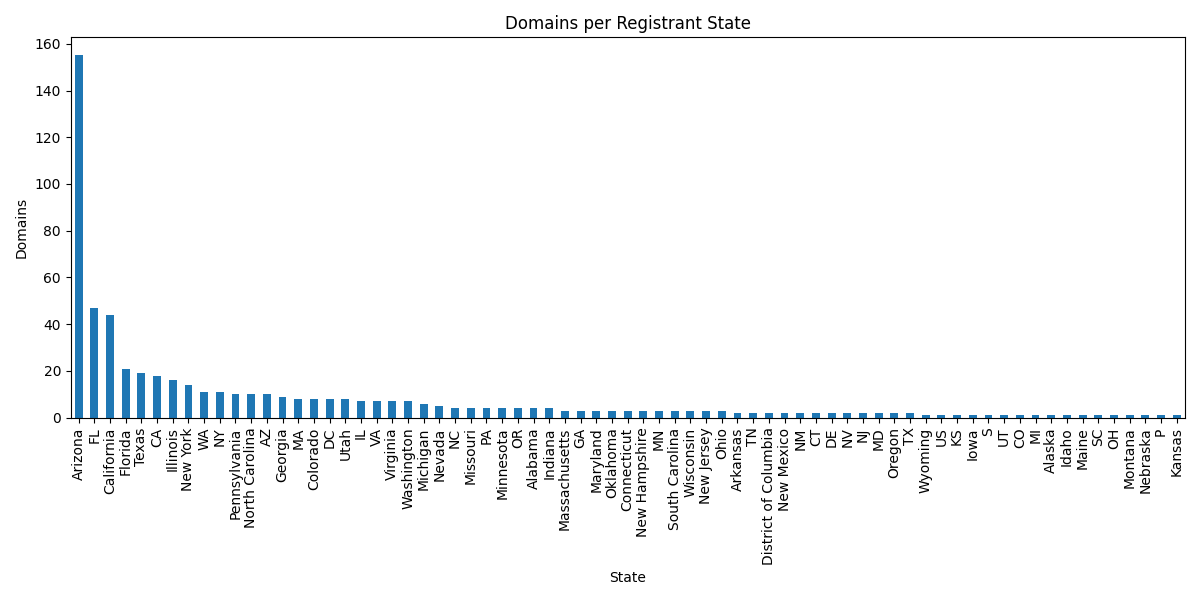
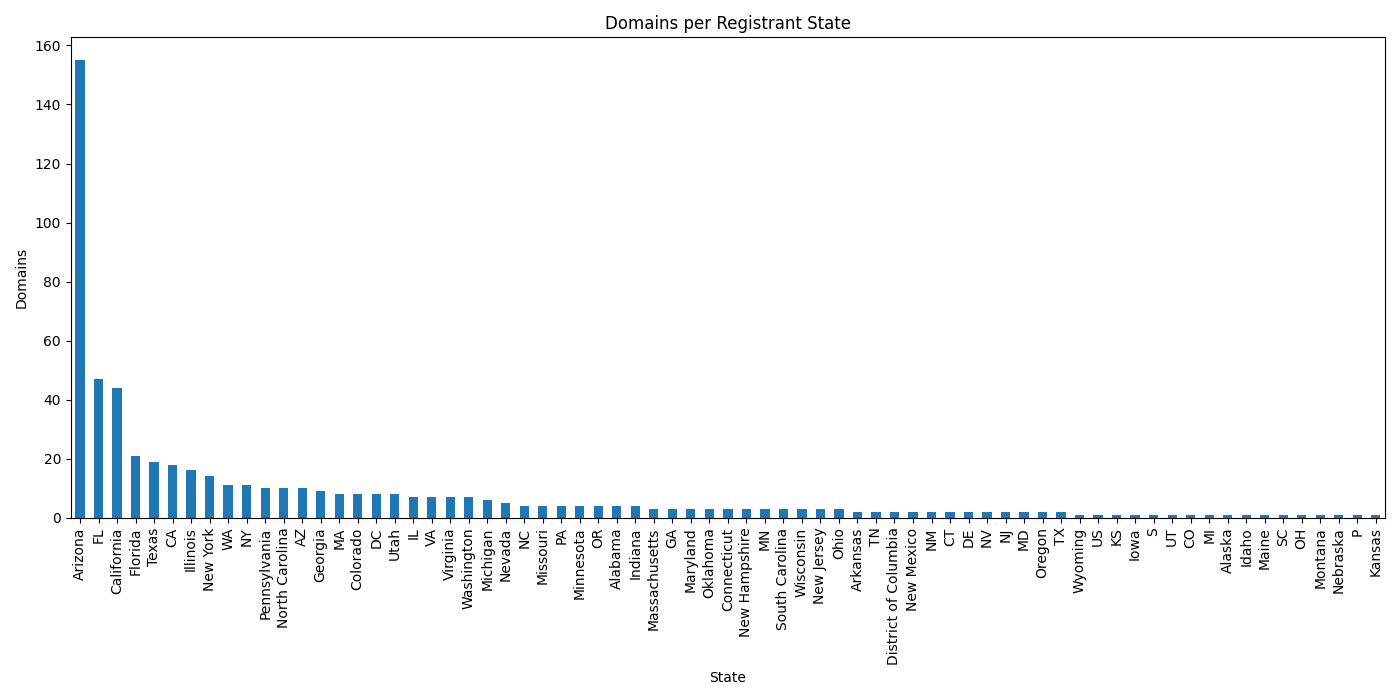
fixed all necessary issues

Changed region(s): [[0.0, 0.06, 1.0, 0.96], [0.0617, 0.0, 0.9867, 0.06], [0.4933, 0.96, 0.555, 0.99]]

diff --git a/Main.py b/Main.py
@@ -10,9 +10,12 @@ def main():
     states = state_counts(df)
     admin_countries = admin_country(df)
     whois_servers = whois_servers_count(df)
+    domains = whois_servers_domains(df)
+    # print(whois_servers)
     plot_bar(states,"Domains per Registrant State","State","Domains","registrant_state_counts.png")
     plot_pie(admin_countries,'Majority of Administrative Countries','major_admin_countries.png')
     plot_pie(whois_servers,'whois Servers Domination','major_whois_servers.png')
+    plot_bar(domains,'Most abused TLDs','Domains','','whois_servers_domains.png')
 
 
 if __name__ == '__main__':

diff --git a/Analyze.py b/Analyze.py
@@ -4,3 +4,6 @@ def admin_country(df):
     return df['registrant_country'].value_counts().sort_values(ascending=False)
 def whois_servers_count(df):
     return df['whoisServer'].value_counts().sort_values(ascending=False)
+
+def whois_servers_domains(df):
+    return df['whoisServer'].str.split('.').str[2].value_counts().sort_values(ascending=False)

diff --git a/Visualize.py b/Visualize.py
@@ -2,7 +2,7 @@ import matplotlib.pyplot as plt
 
 
 def plot_bar(data, title, xlabel, ylabel, filename):
-    plt.figure(figsize=(12,6))
+    plt.figure(figsize=(14,7))
     data.plot(kind='bar')
     plt.title(title)
     plt.xlabel(xlabel)

diff --git a/LoadAndClean.py b/LoadAndClean.py
@@ -1,6 +1,5 @@
 import pandas as pd
 
-
 def load_and_clean(inputPath):
     df = pd.read_csv(inputPath)
     new_df = df.dropna(axis=1, how='all').copy()
